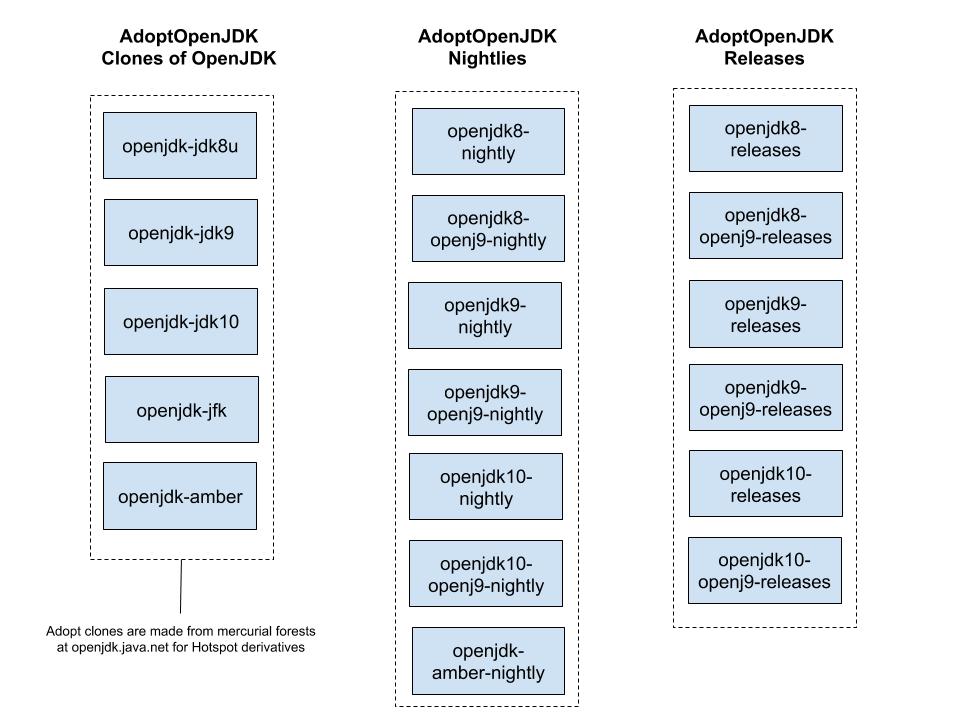
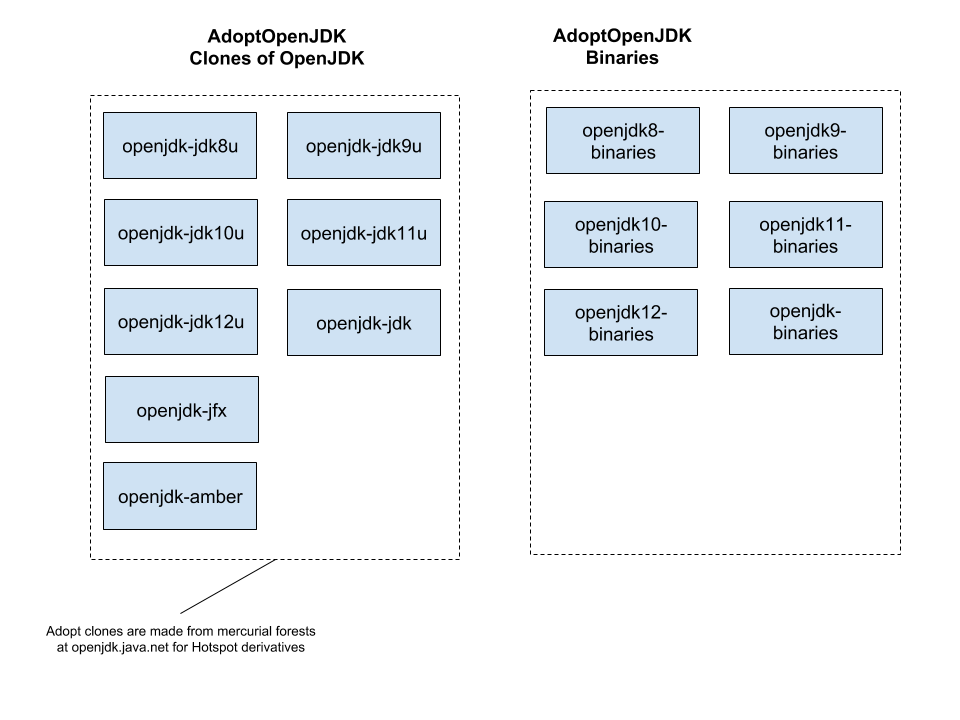
Overhaul the docs

diff --git a/README.md b/README.md
@@ -14,13 +14,13 @@ the [Contribution Guide](CONTRIBUTING.md).
 
 The AdoptOpenJDK Build Farm is three things:
 
+1. **A Community of builders** - A place where those who build and test OpenJDK come together to share common code and practices.
+1. **Professionally built OpenJDK binaries** - A place for end users to download professionally built and tested OpenJDK binaries.
 1. **Infrastructure as Code** - To host, build, test and deploy variants of [OpenJDK](http://openjdk.java.net) (aka Java)!
 This infrastructure as code is designed to be usable by any person or organisation wishing to build a derivative
 build farm or parts of one.
-1. **Professionally built OpenJDK binaries** - A place for end users to download professionally built and tested OpenJDK binaries.
-1. **A Community of builders** - A place where those who build and test OpenJDK come together to share common code and practices.
 
-See our [https://www.adoptopenjdk.net](https://www.adoptopenjdk.net) for in depth details of the motivation, who's involved, the sponsors and much more!
+See [https://www.adoptopenjdk.net](https://www.adoptopenjdk.net) for in depth details of the motivation, who's involved, the sponsors and much more!
 
 ## Dependent Projects
 These projects are located in the following repositories in rough order of importance with regards to understanding how
@@ -31,24 +31,30 @@ changes.)
 ![Dependent Projects](images/Adopt_Build_Farm_Repo_Relationships.png)
 
 * [Technical Steering Committee (TSC)](https://github.com/AdoptOpenJDK/TSC) - The Technical Steering Committee and Knowledge Base starting point
+  * [TSC-confidential)](https://github.com/AdoptOpenJDK/TSC-confidential) - To hold any confidential information for the TSC, e.g. Sponsorship Agreements 
   * [security](https://github.com/AdoptOpenJDK/security) - A private repo for the security team
     * [moderation](https://github.com/AdoptOpenJDK/moderation) - A private repo for moderation requests
     * [secrets](https://github.com/AdoptOpenJDK/secrets) - A private repo for secrets
+  * [buzz](https://github.com/AdoptOpenJDK/buzz) - Community Outreach and Sponsors
 * [openjdk-infrastructure](https://github.com/AdoptOpenJDK/openjdk-infrastructure) - Infrastructure as Code and documentation for build farm hosts
     * [email](https://github.com/AdoptOpenJDK/email) - For handling all org emails (mailgun)
     * [openjdk-jenkins-helper](https://github.com/AdoptOpenJDK/openjdk-jenkins-helper) - An auto label generator for Jenkins
 * [openjdk-build](https://github.com/AdoptOpenJDK/openjdk-build) - Code and instructions for building Adopt OpenJDK Binaries
     * [openjdk-docker](https://github.com/AdoptOpenJDK/openjdk-docker) - Scripts for creating Docker images of OpenJDK binaries
+    * [openjdk-docker-build-tools](https://github.com/AdoptOpenJDK/openjdk-docker-build-tools) - Helper scripts for [openjdk-docker](https://github.com/AdoptOpenJDK/openjdk-docker) 
     * [openjdk-installer](https://github.com/AdoptOpenJDK/openjdk-installer) - Installer files for creating platform packaged OpenJDK binaries
     * [homebrew-openjdk](https://github.com/AdoptOpenJDK/homebrew-openjdk) - HomeBrew TAP repo for all macOS OpenJDK binaries
     * [jdk-api-diff](https://github.com/AdoptOpenJDK/jdk-api-diff) - A diff tool that reports what API changes there are between versions
 * [openjdk-tests](https://github.com/AdoptOpenJDK/openjdk-tests) - Instructions for all testing at AdoptOpenJDK, code for app, performance and regression testing of AdoptOpenJDK Binaries and CI test automation scripts
+    * [openjdk-test-tools](https://github.com/AdoptOpenJDK/openjdk-test-tools) - Tools for openjdk testing (not to be confused with [stf](https://github.com/AdoptOpenJDK/stf) which is the tooling for system tests)
     * [openjdk-systemtest](https://github.com/AdoptOpenJDK/openjdk-systemtest) - Code and instructions for system and load testing AdoptOpenJDK Binaries
     * [stf](https://github.com/AdoptOpenJDK/stf) - The System Test Framework, a harness for executing [openjdk-systemtest](https://github.com/AdoptOpenJDK/openjdk-systemtest)
+    * [bumblebench](https://github.com/AdoptOpenJDK/bumblebench) - A microbenchmarking test framework for Adopt OpenJDK
 * [openjdk-website](https://github.com/AdoptOpenJDK/openjdk-website) - Code and instructions for https://www.adoptopenjdk.net
     * [openjdk-api](https://github.com/AdoptOpenJDK/openjdk-api) - Code and instructions for https://api.adoptopenjdk.net
         * [openjdk-api-java-client](https://github.com/AdoptOpenJDK/openjdk-api-java-client) - A Java client for our API
     * [openjdk-website-backend](https://github.com/AdoptOpenJDK/openjdk-website-backend) - Code for pulling the GitHub releases API into the website
+    * [openjdk-dashboard](https://github.com/AdoptOpenJDK/openjdk-dashboard) - AdoptOpenJDK Dashboard for download stats at https://dash.adoptopenjdk.net
 
 ### AdoptOpenJDK Source and Distribution Repos
 
@@ -62,51 +68,37 @@ The following diagram lists the source and distro repos for AdoptOpenJDK (edit t
 When an OpenJDK variant is mercurial based or AdoptOpenJDK needs to maintain its own patches then we have a clone of that source:
 
 * [openjdk-jdk8u](https://github.com/AdoptOpenJDK/openjdk-jdk8u)
-* [openjdk-jdk9](https://github.com/AdoptOpenJDK/openjdk-jdk9) - **TODO** move this to jdk9u
+* [openjdk-aarch64-jdk8u](https://github.com/AdoptOpenJDK/openjdk-aarch64-jdk8u)
+* [openjdk-jdk9u](https://github.com/AdoptOpenJDK/openjdk-jdk9u)
 * [openjdk-jdk10u](https://github.com/AdoptOpenJDK/openjdk-jdk10u)
+* [openjdk-jdk11u](https://github.com/AdoptOpenJDK/openjdk-jdk11u)
+* [openjdk-jdk12u](https://github.com/AdoptOpenJDK/openjdk-jdk12u)
+* [openjdk-jdk](https://github.com/AdoptOpenJDK/openjdk-jdk)
 * [openjdk-jfx](https://github.com/AdoptOpenJDK/openjdk-jfx)
 * [openjdk-amber](https://github.com/AdoptOpenJDK/openjdk-amber)
 
-### Nightly AdoptOpenJDK binaries
+### AdoptOpenJDK binary repos
 
-Our nightly builds have have basic tests run but are not officially supported.
+These GitHub Repos are where builds that pass the pipeline are published to. The 
+API (and subsequently) website poll these repos to make binaries available.
 
-* [openjdk8-nightly](https://github.com/AdoptOpenJDK/openjdk8-nightly/) - AdoptOpenJDK main binary nightlies for OpenJDK 8 with HotSpot
-* [openjdk8-openj9-nightly](https://github.com/AdoptOpenJDK/openjdk8-openj9-nightly/) - AdoptOpenJDK main binary nightlies for OpenJDK 8 with Eclipse OpenJ9
-* [openjdk9-nightly](https://github.com/AdoptOpenJDK/openjdk9-nightly/) - AdoptOpenJDK main binary nightlies for OpenJDK 9 with HotSpot
-* [openjdk9-openj9-nightly](https://github.com/AdoptOpenJDK/openjdk9-openj9-nightly/) - AdoptOpenJDK main binary nightlies for OpenJDK 9 with Eclipse OpenJ9
-* [openjdk10-nightly](https://github.com/AdoptOpenJDK/openjdk10-nightly/) - AdoptOpenJDK main binary nightlies for OpenJDK 10 with HotSpot
-* [openjdk10-openj9-nightly](https://github.com/AdoptOpenJDK/openjdk10-openj9-nightly/) - AdoptOpenJDK main binary nightlies for OpenJDK 10 with Eclipse OpenJ9
-* [openjdk-amber-nightly](https://github.com/AdoptOpenJDK/openjdk-amber-nightly) - AdoptOpenJDK project Amber nightlies
-
-### Release AdoptOpenJDK binaries
-
-Our release builds have met a quality bar where the AdoptOpenJDK community is happy to provide support.
-
-* [openjdk8-releases](https://github.com/AdoptOpenJDK/openjdk8-releases/) - AdoptOpenJDK main binary releases for OpenJDK 8 with HotSpot
-* [openjdk8-openj9-releases](https://github.com/AdoptOpenJDK/openjdk8-openj9-releases/) - AdoptOpenJDK main binary releases for OpenJDK 8 with Eclipse OpenJ9
-* [openjdk9-releases](https://github.com/AdoptOpenJDK/openjdk9-releases/) - AdoptOpenJDK main binary releases for OpenJDK 9 with HotSpot
-* [openjdk9-openj9-releases](https://github.com/AdoptOpenJDK/openjdk9-openj9-releases/) - AdoptOpenJDK main binary releases for OpenJDK 9 with Eclipse OpenJ9
-* [openjdk10-releases](https://github.com/AdoptOpenJDK/openjdk10-releases/) - AdoptOpenJDK main binary releases for OpenJDK 10 with HotSpot
-* [openjdk10-openj9-releases](https://github.com/AdoptOpenJDK/openjdk10-openj9-releases/) - AdoptOpenJDK main binary releases for OpenJDK 10 with Eclipse OpenJ9
+* [openjdk8-binaries](https://github.com/AdoptOpenJDK/openjdk8-binaries/) - AdoptOpenJDK nightly and release binaries for OpenJDK 8 (HotSpot VM and Eclipse OpenJ9 VM)
+* [openjdk9-binaries](https://github.com/AdoptOpenJDK/openjdk9-binaries/) - AdoptOpenJDK nightly and release binaries for OpenJDK 9 (HotSpot VM and Eclipse OpenJ9 VM)
+* [openjdk10-binaries](https://github.com/AdoptOpenJDK/openjdk10-binaries/) - AdoptOpenJDK nightly and release binaries for OpenJDK 10 (HotSpot VM and Eclipse OpenJ9 VM)
+* [openjdk11-binaries](https://github.com/AdoptOpenJDK/openjdk11-binaries/) - AdoptOpenJDK nightly and release binaries for OpenJDK 11 (HotSpot VM and Eclipse OpenJ9 VM)
+* [openjdk12-binaries](https://github.com/AdoptOpenJDK/openjdk12-binaries/) - AdoptOpenJDK nightly and release binaries for OpenJDK 12 (HotSpot VM and Eclipse OpenJ9 VM)
+* [openjdk-binaries](https://github.com/AdoptOpenJDK/openjdk-binaries/) - AdoptOpenJDK nightly and release binaries for OpenJDK (Latest) (HotSpot VM and Eclipse OpenJ9 VM)
 
 ### Private repos
 
 Due to security or licensing concerns the following repos are private.  Please raise an issue on the
  [Infrastructure Project](https://github.com/AdoptOpenJDK/openjdk-infrastructure) if you think you need access.
 
+* [TSC-confidential)](https://github.com/AdoptOpenJDK/TSC-confidential) - To hold any confidential information for the TSC, e.g. Sponsorship Agreements
 * [moderation](https://github.com/AdoptOpenJDK/moderation) - For holding moderation requests
 * [secrets](https://github.com/AdoptOpenJDK/secrets) - For holding some secrets
 * [security](https://github.com/AdoptOpenJDK/security) - For the security team
 * [openjdk-website-staging](https://github.com/AdoptOpenJDK/openjdk-staging-webiste) - for staging website PR's
-
-The following private repos are obsolete:
-
-* [JCK](https://github.com/AdoptOpenJDK/JCK) - documentation, issues and materials that running a JCK (independent of version)
-* [JCK8](https://github.com/AdoptOpenJDK/JCK8) - code and documentation for running JCK8
-* [JCK9](https://github.com/AdoptOpenJDK/JCK9) - code and documentation for running JCK9
-* [JCK10](https://github.com/AdoptOpenJDK/JCK10) - code and documentation for running JCK10
-* [JCK-results](https://github.com/AdoptOpenJDK/JCK-results) - for storing JCK results
 
 ## Workflow
 
@@ -173,6 +165,10 @@ sends the test jobs to the Jenkins followers based on a similar tagging system t
 Tests include, but are not limited to the jtreg tests that come with OpenJDK itself.
 1. **Builds are system tested** - [System Tests](https://ci.adoptopenjdk.net/view/System%20tests/)
 from [openjdk-systemtests](https://github.com/AdoptOpenJDK/openjdk-systemtests) are executed and test results are posted to TODO
+1. **Builds are external tested** - [External Tests](https://ci.adoptopenjdk.net/view/Test_external/) are executed and test results are posted to TODO
+1. **Builds are performance tested** - [Performance Tests](https://ci.adoptopenjdk.net/view/Test_perf/)
+from [bumblebench](https://github.com/AdoptOpenJDK/bumblebench) are executed and test results are posted to TODO
+
 
 #### 3.3 Deploy Binaries
 
@@ -182,14 +178,14 @@ from [openjdk-systemtests](https://github.com/AdoptOpenJDK/openjdk-systemtests) 
 
 1. **Binaries are deployed** - Using the [OpenJDK Release Tool](https://ci.adoptopenjdk.net/view/Tooling/job/openjdk_release_tool/) (from the
 [openjdk-webiste-backend](https://github.com/AdoptOpenJDK/openjdk-website-backend) project) in order to:
-    1. deploy them to the various nightly repos:
-    ([openjdk8-nightly](https://github.com/AdoptOpenJDK/openjdk8-nightly/), [openjdk8-openj9-nightly](https://github.com/AdoptOpenJDK/openjdk8-openj9-nightly/),
-    [openjdk9-nightly](https://github.com/AdoptOpenJDK/openjdk9-nightly/), [openjdk9-openj9-nightly](https://github.com/AdoptOpenJDK/openjdk9-openj9-nightly/),
-    [openjdk10-nightly](https://github.com/AdoptOpenJDK/openjdk10-nightly/), [openjdk10-openj9-nightly](https://github.com/AdoptOpenJDK/openjdk10-openj9-nightly/))
-    and release repos:
-    ([openjdk8-releases](https://github.com/AdoptOpenJDK/openjdk8-releases/), [openjdk8-openj9-releases](https://github.com/AdoptOpenJDK/openjdk8-openj9-releases/),
-    [openjdk9-releases](https://github.com/AdoptOpenJDK/openjdk9-releases/), [openjdk9-openj9-releases](https://github.com/AdoptOpenJDK/openjdk9-openj9-releases/),
-    [openjdk10-releases](https://github.com/AdoptOpenJDK/openjdk10-releases/), [openjdk10-openj9-releases](https://github.com/AdoptOpenJDK/openjdk10-openj9-releases/))
+    1. deploy them to the various binary repos:
+    ([openjdk8-binaries](https://github.com/AdoptOpenJDK/openjdk8-binaries/),
+    [openjdk9-binaries](https://github.com/AdoptOpenJDK/openjdk9-binaries/),
+    [openjdk10-binaries](https://github.com/AdoptOpenJDK/openjdk10-binaries/),
+    [openjdk11-binaries](https://github.com/AdoptOpenJDK/openjdk11-binaries/),
+    [openjdk12-binaries](https://github.com/AdoptOpenJDK/openjdk12-binaries/),
+    [openjdk-binaries](https://github.com/AdoptOpenJDK/openjdk-binaries/)).
+
 1. **Binaries made available** - Binaries are made available for download via the [website](https://www.adoptopenjdk.net)
 and [api](https://api.adoptopenjdk.net) gateway. See [openjdk-website](https://github.com/AdoptOpenJDK/openjdk-website),
 [openjdk-api](https://github.com/AdoptOpenJDK/openjdk-api) and [openjdk-api-java-client](https://github.com/AdoptOpenJDK/openjdk-api-java-client) projects
